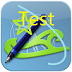
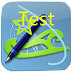
Test drawBitmap() on iOS.

diff --git a/ios/canvas/GiQuartzCanvas.mm b/ios/canvas/GiQuartzCanvas.mm
@@ -1,5 +1,5 @@
 /**
- * @file GiQuartzCanvas.cpp
+ * @file GiQuartzCanvas.mm
  * @copyright GNU LGPL v3, https://github.com/rhcad/touchvg
  * @author Zhang Yungui
  * @version 1.0, 2012-9-21
@@ -172,12 +172,44 @@ void GiQuartzCanvas::clipPath()
     CGContextClip(_ctx);
 }
 
-void GiQuartzCanvas::drawHandle(float, float, int)
+void GiQuartzCanvas::drawHandle(float x, float y, int type)
 {
+    if (type >= 0 && type < 4) {
+        NSString *names[] = { @"vgdot1.png", @"vgdot2.png", @"vgdot1.png", @"app57.png" };
+        UIImage *image = [UIImage imageNamed:names[type]];
+        if (image) {
+            CGImageRef img = [image CGImage];
+            float w = CGImageGetWidth(img);
+            float h = CGImageGetHeight(img);
+            
+            CGAffineTransform af = CGAffineTransformMake(1, 0, 0, -1, x - w * 0.5f, y + h * 0.5f);
+            CGContextConcatCTM(_ctx, af);
+            CGContextDrawImage(_ctx, CGRectMake(0, 0, w, h), img);
+            CGContextConcatCTM(_ctx, CGAffineTransformInvert(af));
+            
+            // 如果使用下面一行显示，则图像是上下颠倒的:
+            // CGContextDrawImage(_ctx, CGRectMake(x - w * 0.5f, y - h * 0.5f, w, h), img);
+        }
+    }
 }
 
-void GiQuartzCanvas::drawBitmap(const GiBitmap&, float, float, float, float)
+void GiQuartzCanvas::drawBitmap(const GiBitmap&, float x, float y, 
+                                float dpix, float dpiy, float angle)
 {
+    if (dpiy < 1) dpiy = dpix;
+    
+    UIImage *image = [UIImage imageNamed:@"app57.png"];
+    if (image) {
+        CGImageRef img = [image CGImage];
+        float w = CGImageGetWidth(img) * dpix / 200;
+        float h = CGImageGetHeight(img) * dpiy / 200;
+        
+        CGAffineTransform af = CGAffineTransformMake(1, 0, 0, -1, x, y);
+        af = CGAffineTransformRotate(af, angle);
+        CGContextConcatCTM(_ctx, af);
+        CGContextDrawImage(_ctx, CGRectMake(-w/2, -h/2, w, h), img);
+        CGContextConcatCTM(_ctx, CGAffineTransformInvert(af));
+    }
 }
 
 void GiQuartzCanvas::drawTextAt(const char*, float, float, float, int)

diff --git a/android/demo/src/touchvg/canvas/GiCanvasEx.java b/android/demo/src/touchvg/canvas/GiCanvasEx.java
@@ -1,4 +1,4 @@
-/**
+/**
  * @file GiCanvasEx.java
  * @copyright GNU LGPL v3, https://github.com/rhcad/touchvg
  * @author Zhang Yungui
@@ -9,6 +9,7 @@ package touchvg.canvas;
 import android.graphics.Bitmap;
 import android.graphics.Canvas;
 import android.graphics.DashPathEffect;
+import android.graphics.Matrix;
 import android.graphics.Paint;
 import android.graphics.Path;
 import android.graphics.PathEffect;
@@ -27,6 +28,7 @@ public class GiCanvasEx extends GiCanvas {
     private static final float patDot[]       = { 1, 2 };
     private static final float patDashDot[]   = { 10, 2, 2, 2 };
     private static final float dashDotdot[]   = { 20, 2, 2, 2, 2, 2 };
+    private Bitmap[] mBitmaps;
     
     static {
         System.loadLibrary("touchvg");
@@ -212,18 +214,33 @@ public class GiCanvasEx extends GiCanvas {
         mCanvas.clipPath(mPath);
     }
     
-    private Bitmap getHandleBitmap() { return null; }
+    public void setBitmaps(Bitmap[] bmps) {
+    	mBitmaps = bmps;
+    }
+    
+    public Bitmap getHandleBitmap(int type) {
+    	return type < mBitmaps.length ? mBitmaps[type] : null;
+    }
     
     @Override
     public void drawHandle(float x, float y, int type) {
-        Bitmap bmp = getHandleBitmap();
+        Bitmap bmp = getHandleBitmap(type);
         if (bmp != null) {
             mCanvas.drawBitmap(bmp, x - bmp.getWidth() / 2, y - bmp.getHeight() / 2, null);
         }
     }
     
     @Override
-    public void drawBitmap(GiBitmap bitmap, float x, float y, float dpi, float angle) {
+    public void drawBitmap(GiBitmap bitmap, float x, float y,
+                           float dpix, float dpiy, float angle) {
+    	Bitmap bmp = getHandleBitmap(3);
+    	if (bmp != null) {
+    		Matrix mat = new Matrix();
+    		mat.postRotate(angle);
+    		mat.postScale(dpix / 200, dpiy / 200);
+    		mat.postTranslate(x, y);
+    		mCanvas.drawBitmap(bmp, mat, null);
+    	}
     }
     
     @Override

diff --git a/android/demo/src/demo/view/GraphView.java b/android/demo/src/demo/view/GraphView.java
@@ -7,9 +7,12 @@
 package demo.view;
 
 import touchvg.canvas.GiCanvasEx;
+import demo.app.R.drawable;
 import android.app.Activity;
 import android.content.Context;
+import android.graphics.Bitmap;
 import android.graphics.Canvas;
+import android.graphics.drawable.BitmapDrawable;
 import touchvg.jni.TestCanvas;
 
 public class GraphView extends TestView {
@@ -29,6 +32,13 @@ public class GraphView extends TestView {
 	
 	@Override
 	protected void onDraw(Canvas canvas) {
+		if (mCanvas.getHandleBitmap(0) == null) {
+			Bitmap bmp1 = ((BitmapDrawable)this.getResources().getDrawable(drawable.vgdot1)).getBitmap();
+			Bitmap bmp2 = ((BitmapDrawable)this.getResources().getDrawable(drawable.vgdot2)).getBitmap();
+			Bitmap bmp3 = ((BitmapDrawable)this.getResources().getDrawable(drawable.ic_launcher)).getBitmap();
+			mCanvas.setBitmaps(new Bitmap[] { bmp1, bmp2, bmp3, bmp3 });
+		}
+		
 		TestCanvas.initRand();
 		long ms = System.currentTimeMillis();
 		

diff --git a/core/canvas/gicanvas.h b/core/canvas/gicanvas.h
@@ -103,10 +103,12 @@ public:
      * @param bitmap 图像对象，由设备相关实现类决定对象细节
      * @param x 图像中心位置X
      * @param y 图像中心位置Y
-     * @param dpi 每英寸要显示的图像像素数，值越大显示图像越小
+     * @param dpix X方向每英寸要显示的图像像素数，值越大显示图像越小
+     * @param dpi Y方向每英寸要显示的图像像素数，小于1则与dpix相同
      * @param angle 旋转角度，正方向为世界坐标系的逆时针方向
      */
-    virtual void drawBitmap(const GiBitmap& bitmap, float x, float y, float dpi, float angle) = 0;
+    virtual void drawBitmap(const GiBitmap& bitmap, float x, float y, 
+                            float dpix, float dpiy, float angle) = 0;
     
     /** 以指定的字体像素大小显示一行文字内容.
      * 使用当前字体和当前填充颜色显示文字.

diff --git a/core/test/testcanvas.cpp b/core/test/testcanvas.cpp
@@ -164,3 +164,17 @@ void TestCanvas::testClipPath(GiCanvas* canvas)
         canvas->restoreClip();
     }
 }
+
+void TestCanvas::testHandle(GiCanvas* canvas)
+{
+    canvas->drawLine(0, 40, 350, 40);
+    canvas->drawLine(0, 120, 350, 120);
+    canvas->drawLine(0, 200, 350, 200);
+    for (int i = 0; i < 6; i++) {
+        canvas->drawLine(50 + i * 50, 0, 50 + i * 50, 250);
+        canvas->drawHandle(50 + i * 50, 40, i);
+        GiBitmap tmp;
+        canvas->drawBitmap(tmp, 50 + i * 50, 120, 50 + i * 50, 0, 0);
+        canvas->drawBitmap(tmp, 50 + i * 50, 200, 200, 0, 3.1416f * i / 6);
+    }
+}

diff --git a/ios/canvas/GiQuartzCanvas.h b/ios/canvas/GiQuartzCanvas.h
@@ -36,7 +36,8 @@ public:
     void clipRect(float x, float y, float w, float h);
     void clipPath();
     void drawHandle(float x, float y, int type);
-    void drawBitmap(const GiBitmap& bitmap, float x, float y, float dpi, float angle);
+    void drawBitmap(const GiBitmap& bitmap, float x, float y, 
+                    float dpix, float dpiy, float angle);
     void drawTextAt(const char* text, float x, float y, float h, int align);
     
 private:

diff --git a/android/demo/src/demo/view/GraphView01.java b/android/demo/src/demo/view/GraphView01.java
@@ -33,10 +33,11 @@ public class GraphView01 extends GraphView {
 	        TestCanvas.testCubicBezier(canvas);
 	    if (hasFlag(0x40))
 	        TestCanvas.testPolygon(canvas);
-        if (hasFlag(0x80)) {
+        if (hasFlag(0x80))
             canvas.clearRect(100, 100, 400, 400);
-        }
         if (hasFlag(0x100))
             TestCanvas.testClipPath(canvas);
+        if (hasFlag(0x200))
+            TestCanvas.testHandle(canvas);
 	}
 }

diff --git a/ios/demo/Classes/MasterViewController.mm b/ios/demo/Classes/MasterViewController.mm
@@ -89,7 +89,7 @@ void getViewControllers(NSMutableArray *arr);
 - (BOOL)tableView:(UITableView *)tableView canEditRowAtIndexPath:(NSIndexPath *)indexPath
 {
     // Return NO if you do not want the specified item to be editable.
-    return YES;
+    return NO;
 }
 
 - (void)tableView:(UITableView *)tableView commitEditingStyle:(UITableViewCellEditingStyle)editingStyle forRowAtIndexPath:(NSIndexPath *)indexPath

diff --git a/ios/demo/Test/GraphView01.mm b/ios/demo/Test/GraphView01.mm
@@ -127,11 +127,12 @@
         TestCanvas::testCubicBezier(canvas);
     if (tests & 0x40)
         TestCanvas::testPolygon(canvas);
-    if (tests & 0x80) {
+    if (tests & 0x80)
         canvas->clearRect(100, 100, 400, 400);
-    }
     if (tests & 0x100)
         TestCanvas::testClipPath(canvas);
+    if (tests & 0x200)
+        TestCanvas::testHandle(canvas);
 }
 
 @end

diff --git a/core/test/testcanvas.h b/core/test/testcanvas.h
@@ -19,4 +19,5 @@ struct TestCanvas {
     static void testPolygon(GiCanvas* canvas);
     
     static void testClipPath(GiCanvas* canvas);
+    static void testHandle(GiCanvas* canvas);
 };
